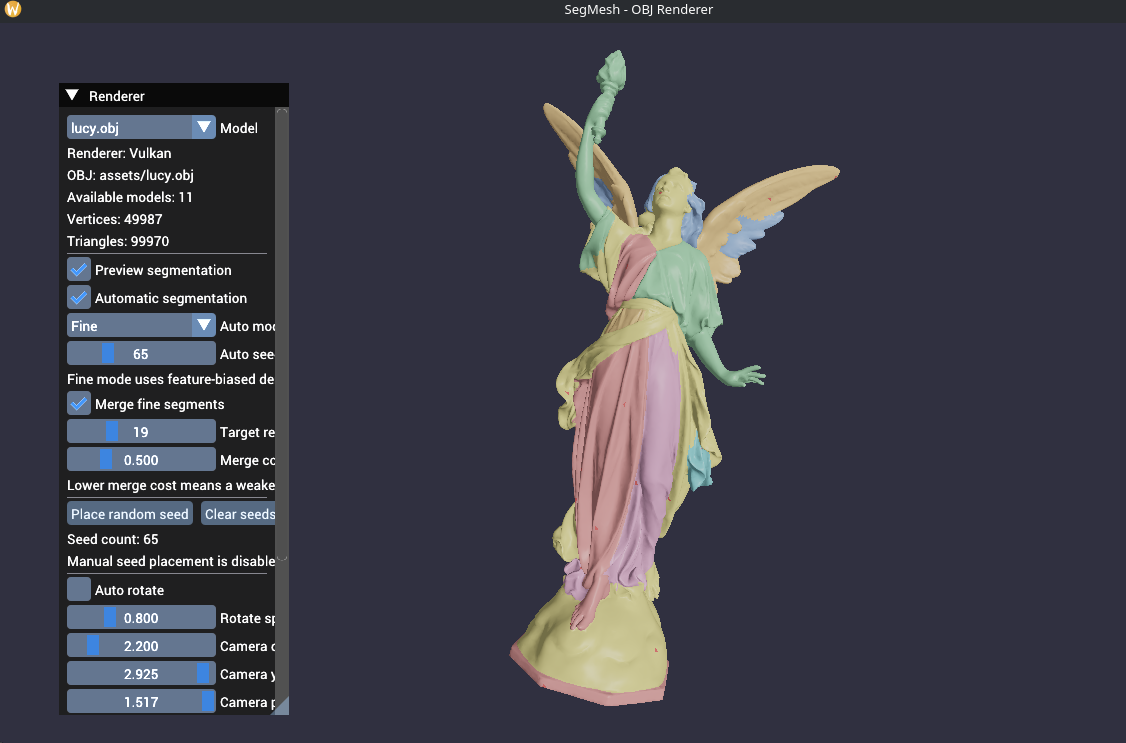
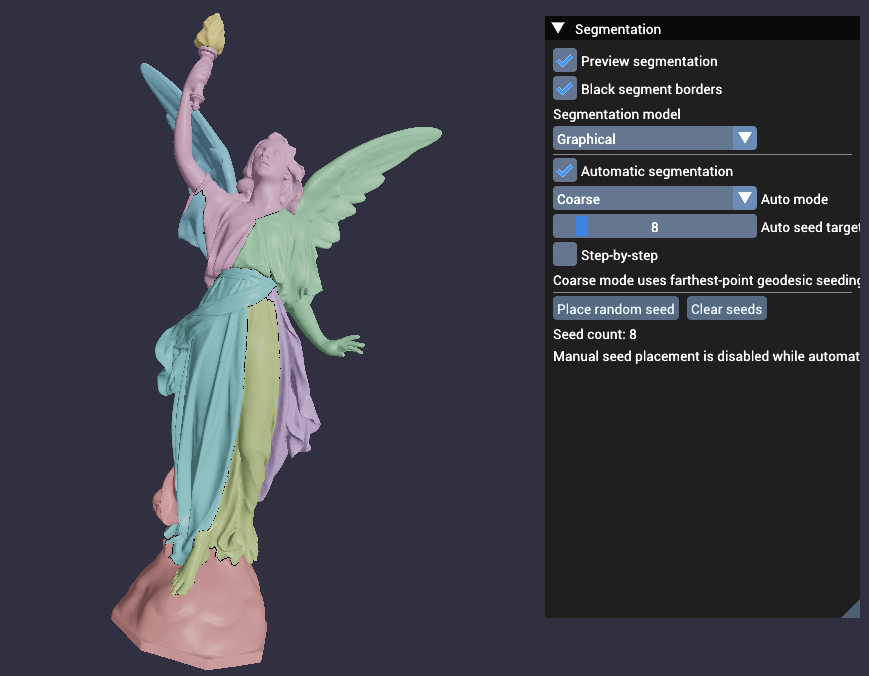
added step by step mode and final fisishies

diff --git a/src/segmentation.cpp b/src/segmentation.cpp
@@ -11,6 +11,7 @@
 #include <limits>
 #include <queue>
 #include <tuple>
+#include <unordered_map>
 #include <utility>
 #include <vector>
 
@@ -990,22 +991,26 @@ bool mergeSegmentsByBoundaryCost(
         }
     }
 
-    const auto pairIndex = [initialSegmentCount](uint32_t a, uint32_t b) -> std::size_t
-    {
-        return static_cast<std::size_t>(a) * static_cast<std::size_t>(initialSegmentCount)
-            + static_cast<std::size_t>(b);
-    };
-
     while (currentSegmentCount > targetSegmentCount)
     {
-        std::vector<bool> currentRoots(initialSegmentCount, false);
         std::vector<double> boundaryDifference(initialSegmentCount, 0.0);
         std::vector<double> boundaryLength(initialSegmentCount, 0.0);
-        std::vector<double> commonDifference(
-            static_cast<std::size_t>(initialSegmentCount) * static_cast<std::size_t>(initialSegmentCount),
-            0.0
-        );
-        std::vector<double> commonLength(commonDifference.size(), 0.0);
+
+        struct AdjacentSegmentPair
+        {
+            uint32_t segmentA = 0;
+            uint32_t segmentB = 0;
+            double commonDifference = 0.0;
+            double commonLength = 0.0;
+        };
+
+        const auto pairKey = [](uint32_t a, uint32_t b) -> uint64_t
+        {
+            return (static_cast<uint64_t>(a) << 32) | static_cast<uint64_t>(b);
+        };
+
+        std::unordered_map<uint64_t, AdjacentSegmentPair> adjacentPairs;
+        adjacentPairs.reserve(edges.size());
 
         for (const FaceGraphEdgeInfo& edge : edges)
         {
@@ -1013,8 +1018,6 @@ bool mergeSegmentsByBoundaryCost(
             const uint32_t label1 = inOutTriangleLabels[static_cast<std::size_t>(edge.face1)];
             const uint32_t root0 = findSegmentRoot(parents, label0);
             const uint32_t root1 = findSegmentRoot(parents, label1);
-            currentRoots[static_cast<std::size_t>(root0)] = true;
-            currentRoots[static_cast<std::size_t>(root1)] = true;
 
             if (root0 == root1)
             {
@@ -1031,62 +1034,58 @@ bool mergeSegmentsByBoundaryCost(
 
             const uint32_t a = std::min(root0, root1);
             const uint32_t b = std::max(root0, root1);
-            commonDifference[pairIndex(a, b)] += edgeBoundaryDifference;
-            commonLength[pairIndex(a, b)] += edgeBoundaryLength;
+            auto [pairIt, inserted] = adjacentPairs.try_emplace(pairKey(a, b));
+            if (inserted)
+            {
+                pairIt->second.segmentA = a;
+                pairIt->second.segmentB = b;
+            }
+
+            pairIt->second.commonDifference += edgeBoundaryDifference;
+            pairIt->second.commonLength += edgeBoundaryLength;
         }
 
         using MergeCandidate = std::tuple<double, uint32_t, uint32_t>;
         std::priority_queue<MergeCandidate, std::vector<MergeCandidate>, std::greater<MergeCandidate> > queue;
 
-        for (uint32_t segmentA = 0; segmentA < initialSegmentCount; ++segmentA)
+        for (const auto& pairEntry : adjacentPairs)
         {
-            if (!currentRoots[static_cast<std::size_t>(segmentA)])
+            const AdjacentSegmentPair& pair = pairEntry.second;
+            if (pair.commonLength <= 1.0e-12)
             {
                 continue;
             }
 
-            for (uint32_t segmentB = segmentA + 1; segmentB < initialSegmentCount; ++segmentB)
+            const uint32_t segmentA = pair.segmentA;
+            const uint32_t segmentB = pair.segmentB;
+            const double commonAverage = pair.commonDifference / pair.commonLength;
+            // Eq. (14): compare the shared boundary against the union of the two current boundaries.
+            const double unionDifference =
+                boundaryDifference[static_cast<std::size_t>(segmentA)]
+                + boundaryDifference[static_cast<std::size_t>(segmentB)]
+                - pair.commonDifference;
+            const double unionLength =
+                boundaryLength[static_cast<std::size_t>(segmentA)]
+                + boundaryLength[static_cast<std::size_t>(segmentB)]
+                - pair.commonLength;
+            if (unionLength <= 1.0e-12)
             {
-                if (!currentRoots[static_cast<std::size_t>(segmentB)])
-                {
-                    continue;
-                }
-
-                const std::size_t index = pairIndex(segmentA, segmentB);
-                if (commonLength[index] <= 1.0e-12)
-                {
-                    continue;
-                }
-
-                const double commonAverage = commonDifference[index] / commonLength[index];
-                // Eq. (14): compare the shared boundary against the union of the two current boundaries.
-                const double unionDifference =
-                    boundaryDifference[static_cast<std::size_t>(segmentA)]
-                    + boundaryDifference[static_cast<std::size_t>(segmentB)]
-                    - commonDifference[index];
-                const double unionLength =
-                    boundaryLength[static_cast<std::size_t>(segmentA)]
-                    + boundaryLength[static_cast<std::size_t>(segmentB)]
-                    - commonLength[index];
-                if (unionLength <= 1.0e-12)
-                {
-                    continue;
-                }
-
-                const double unionAverage = unionDifference / unionLength;
-                if (unionAverage <= 1.0e-12)
-                {
-                    continue;
-                }
-
-                const double relativeCost = commonAverage / unionAverage;
-                if (!std::isfinite(relativeCost))
-                {
-                    continue;
-                }
-
-                queue.emplace(relativeCost, segmentA, segmentB);
+                continue;
             }
+
+            const double unionAverage = unionDifference / unionLength;
+            if (unionAverage <= 1.0e-12)
+            {
+                continue;
+            }
+
+            const double relativeCost = commonAverage / unionAverage;
+            if (!std::isfinite(relativeCost))
+            {
+                continue;
+            }
+
+            queue.emplace(relativeCost, segmentA, segmentB);
         }
 
         if (queue.empty())
@@ -1188,14 +1187,7 @@ bool mergeSmallSegmentsByTriangleCount(
             double sharedLength = 0.0;
         };
 
-        std::vector<NeighborStats> neighborStats(
-            static_cast<std::size_t>(segmentCount) * static_cast<std::size_t>(segmentCount)
-        );
-        const auto pairIndex = [segmentCount](uint32_t a, uint32_t b) -> std::size_t
-        {
-            return static_cast<std::size_t>(a) * static_cast<std::size_t>(segmentCount)
-                + static_cast<std::size_t>(b);
-        };
+        std::vector<std::unordered_map<uint32_t, NeighborStats> > neighborStats(segmentCount);
 
         for (const FaceGraphEdgeInfo& edge : edges)
         {
@@ -1207,8 +1199,8 @@ bool mergeSmallSegmentsByTriangleCount(
             }
 
             const double edgeBoundaryDifference = edge.edgeLength * edge.difference;
-            NeighborStats& stats01 = neighborStats[pairIndex(label0, label1)];
-            NeighborStats& stats10 = neighborStats[pairIndex(label1, label0)];
+            NeighborStats& stats01 = neighborStats[static_cast<std::size_t>(label0)][label1];
+            NeighborStats& stats10 = neighborStats[static_cast<std::size_t>(label1)][label0];
             stats01.sharedDifference += edgeBoundaryDifference;
             stats01.sharedLength += edge.edgeLength;
             stats10.sharedDifference += edgeBoundaryDifference;
@@ -1233,14 +1225,15 @@ bool mergeSmallSegmentsByTriangleCount(
             double bestNeighborAverage = std::numeric_limits<double>::infinity();
             double bestNeighborSharedLength = -1.0;
 
-            for (uint32_t neighborIndex = 0; neighborIndex < segmentCount; ++neighborIndex)
+            for (const auto& neighborEntry : neighborStats[static_cast<std::size_t>(segmentIndex)])
             {
+                const uint32_t neighborIndex = neighborEntry.first;
                 if (neighborIndex == segmentIndex || segmentSizes[static_cast<std::size_t>(neighborIndex)] == 0)
                 {
                     continue;
                 }
 
-                const NeighborStats& stats = neighborStats[pairIndex(segmentIndex, neighborIndex)];
+                const NeighborStats& stats = neighborEntry.second;
                 if (stats.sharedLength <= 1.0e-12)
                 {
                     continue;

diff --git a/src/ui.cpp b/src/ui.cpp
@@ -88,6 +88,10 @@ RendererUiActions drawRendererPanel(
     ImGui::TextUnformatted("Segmentation model");
     ImGui::Combo("##SegmentationModel", &segmentationModel, segmentationModelLabels, IM_ARRAYSIZE(segmentationModelLabels));
     uiState.segmentationModelType = static_cast<SegmentationModelType>(segmentationModel);
+    if (uiState.segmentationModelType == SegmentationModelType::Engineering)
+    {
+        ImGui::TextUnformatted("Engineering mode uses approximate curvature heuristics.");
+    }
     ImGui::Separator();
     ImGui::Checkbox("Automatic segmentation", &uiState.automaticSegmentation);
     if (uiState.automaticSegmentation)
@@ -152,7 +156,7 @@ RendererUiActions drawRendererPanel(
             }
             if (uiState.forceMergeTargetSegmentCount)
             {
-                ImGui::TextUnformatted("Force target keeps merging until the requested region count is reached.");
+                ImGui::TextUnformatted("Force target can merge across strong boundaries to reach the requested count.");
             }
             else
             {

diff --git a/src/ui.h b/src/ui.h
@@ -41,7 +41,7 @@ struct RendererUiState
     int automaticStepSeedCount = 1;
     bool mergeFineSegments = true;
     int mergeTargetSegmentCount = 30;
-    bool forceMergeTargetSegmentCount = true;
+    bool forceMergeTargetSegmentCount = false;
     float mergeCostThreshold = 0.5f;
     bool cleanupSmallFineSegments = true;
     int minFineSegmentTriangles = 24;

diff --git a/README.md b/README.md
@@ -6,6 +6,8 @@ Y.-K. Lai, S.-M. Hu, R. R. Martin, P. L. Rosin, [*Rapid and Effective Segmentati
 
 The project loads triangle meshes from `.obj`, builds face adjacency and per-face geometry on the CPU, solves segmentation on the face graph with Eigen sparse linear algebra, and renders both the source mesh and segmentation preview with bgfx.
 
+The graphical segmentation model follows the paper's dihedral/concavity weighting most closely. The engineering model is experimental: it adds approximate normal, Gaussian-curvature, and mean-curvature differences, but it does not implement the paper's robust integral-invariant curvature estimator.
+
 ## What the project does
 
 1. Load an `.obj` mesh with OpenMesh.
@@ -68,6 +70,8 @@ The merge stage:
 - stops when:
   - the target region count is reached, or
   - the best remaining merge cost exceeds the chosen threshold
+
+The UI can optionally force the requested target region count. Forced merging is useful for exact counts, but it can merge across strong boundaries.
 
 This is based on Sec. 4.2.2 of the paper.
 
